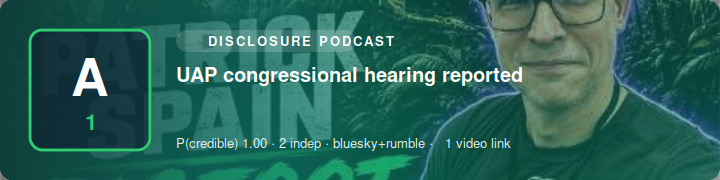
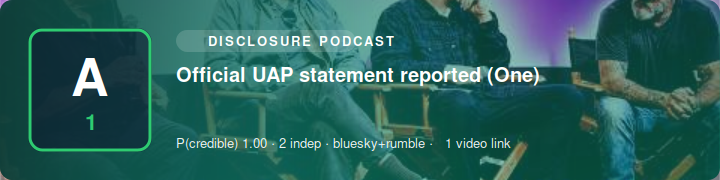
SITREP 2026-07-23 13:40 UTC

diff --git a/index.html b/index.html
@@ -1,1 +1,1 @@
-<!doctype html><meta charset=utf-8><title>Science Bob News — SITREP</title><style>body{font:16px/1.5 system-ui,sans-serif;max-width:760px;margin:2rem auto;padding:0 1rem;color:#111}h1{font-size:1.5rem}h2{margin-top:1.6rem;border-bottom:1px solid #ddd;padding-bottom:.2rem}ul{list-style:none;padding:0}li{margin:.9rem 0}.hl{font-weight:600}.meta{color:#555;font-size:.85rem}.src{font-size:.85rem}.vid{font-size:.85rem;margin-top:.15rem}.card{display:block;max-width:100%;height:auto;border-radius:8px;margin:.4rem 0 .5rem}.upd{background:#fde68a;padding:0 .3rem;border-radius:.2rem;font-size:.75rem}.sub{color:#777;font-size:.85rem}footer{color:#777;font-size:.8rem;margin-top:2rem;border-top:1px solid #ddd;padding-top:.6rem}</style><h1>🛸 Science Bob News</h1><div class="sub">UAP / UFO / USO SITREP · updated 2026-07-23 13:30 UTC · automated</div><h2>Corroborated</h2><ul><li><i>No corroborated reports.</i></li></ul><h2>Developing / unconfirmed</h2><ul><li><img class="card" src="https://n4hy.github.io/sciencebobnews-site/card_d_1.svg" alt="" width="720" height="180"><div class="hl">Official UAP statement reported (Newly)</div><div class="meta">reliability <b>A1</b> · P(credible)=1.0 · 1 independent source(s) · mastodon</div><div class="src"><a href="https://mastodon.au/@vibewire/116957536031397754">@vibewire@mastodon.au</a></div></li><li><img class="card" src="https://n4hy.github.io/sciencebobnews-site/card_d_2.svg" alt="" width="720" height="180"><div class="hl">UAP report (McMinnville)</div><div class="meta">reliability <b>A1</b> · P(credible)=1.0 · 1 independent source(s) · rumble</div><div class="src"><a href="https://www.youtube.com/watch?v=7OT6uJ0yzVY">@podcast</a></div><div class="vid">📹 <a href="https://www.youtube.com/watch?v=7OT6uJ0yzVY">video</a></div></li><li><img class="card" src="https://n4hy.github.io/sciencebobnews-site/card_d_3.svg" alt="" width="720" height="180"><div class="hl">UAP whistleblower testimony reported (Frank)</div><div class="meta">reliability <b>A1</b> · P(credible)=1.0 · 1 independent source(s) · rumble</div><div class="src"><a href="https://www.youtube.com/watch?v=CxvFVjJKZtA">@podcast</a></div><div class="vid">📹 <a href="https://www.youtube.com/watch?v=CxvFVjJKZtA">video</a></div></li><li><img class="card" src="https://n4hy.github.io/sciencebobnews-site/card_d_4.svg" alt="" width="720" height="180"><div class="hl">UAP whistleblower testimony reported (American)</div><div class="meta">reliability <b>A1</b> · P(credible)=1.0 · 1 independent source(s) · rumble</div><div class="src"><a href="https://www.youtube.com/watch?v=LPtMaGpuK-M">@podcast</a></div><div class="vid">📹 <a href="https://www.youtube.com/watch?v=LPtMaGpuK-M">video</a></div></li><li><img class="card" src="https://n4hy.github.io/sciencebobnews-site/card_d_5.svg" alt="" width="720" height="180"><div class="hl">UAP report (Australia)</div><div class="meta">reliability <b>A1</b> · P(credible)=1.0 · 1 independent source(s) · rumble</div><div class="src"><a href="https://www.youtube.com/watch?v=ZegQhxJrJGo">@podcast</a></div><div class="vid">📹 <a href="https://www.youtube.com/watch?v=ZegQhxJrJGo">video</a></div></li></ul><footer><b>Powered by Science Bob News.</b> Free to use with credit (see LICENSE). Headlines are factual restatements in the engine's own words; click sources for originals. Single-origin reposts collapse to one source; prosaic candidates flagged where offered.</footer>
+<!doctype html><meta charset=utf-8><title>Science Bob News — SITREP</title><style>body{font:16px/1.5 system-ui,sans-serif;max-width:760px;margin:2rem auto;padding:0 1rem;color:#111}h1{font-size:1.5rem}h2{margin-top:1.6rem;border-bottom:1px solid #ddd;padding-bottom:.2rem}ul{list-style:none;padding:0}li{margin:.9rem 0}.hl{font-weight:600}.meta{color:#555;font-size:.85rem}.src{font-size:.85rem}.vid{font-size:.85rem;margin-top:.15rem}.card{display:block;max-width:100%;height:auto;border-radius:8px;margin:.4rem 0 .5rem}.upd{background:#fde68a;padding:0 .3rem;border-radius:.2rem;font-size:.75rem}.sub{color:#777;font-size:.85rem}footer{color:#777;font-size:.8rem;margin-top:2rem;border-top:1px solid #ddd;padding-top:.6rem}</style><h1>🛸 Science Bob News</h1><div class="sub">UAP / UFO / USO SITREP · updated 2026-07-23 13:40 UTC · automated</div><h2>Corroborated</h2><ul><li><img class="card" src="https://n4hy.github.io/sciencebobnews-site/card_c_1.svg" alt="" width="720" height="180"><div class="hl">Official UAP statement reported (One)</div><div class="meta">reliability <b>A1</b> · P(credible)=1.0 · 2 independent source(s) · bluesky+rumble</div><div class="src"><a href="https://www.youtube.com/watch?v=gQqEkOxMhSQ">@podcast</a> · <a href="https://bsky.app/profile/did:plc:c45h73oc2lmzsaawxsbludi6/post/3mrcxlolhn22q">@did:plc:c45h73oc2lmzsaawxsbludi6</a></div><div class="vid">📹 <a href="https://www.youtube.com/watch?v=gQqEkOxMhSQ">video</a></div></li></ul><h2>Developing / unconfirmed</h2><ul><li><img class="card" src="https://n4hy.github.io/sciencebobnews-site/card_d_1.svg" alt="" width="720" height="180"><div class="hl">Official UAP statement reported (Newly)</div><div class="meta">reliability <b>A1</b> · P(credible)=1.0 · 1 independent source(s) · mastodon</div><div class="src"><a href="https://mastodon.au/@vibewire/116957536031397754">@vibewire@mastodon.au</a></div></li><li><img class="card" src="https://n4hy.github.io/sciencebobnews-site/card_d_2.svg" alt="" width="720" height="180"><div class="hl">UAP report (McMinnville)</div><div class="meta">reliability <b>A1</b> · P(credible)=1.0 · 1 independent source(s) · rumble</div><div class="src"><a href="https://www.youtube.com/watch?v=7OT6uJ0yzVY">@podcast</a></div><div class="vid">📹 <a href="https://www.youtube.com/watch?v=7OT6uJ0yzVY">video</a></div></li><li><img class="card" src="https://n4hy.github.io/sciencebobnews-site/card_d_3.svg" alt="" width="720" height="180"><div class="hl">UAP whistleblower testimony reported (Frank)</div><div class="meta">reliability <b>A1</b> · P(credible)=1.0 · 1 independent source(s) · rumble</div><div class="src"><a href="https://www.youtube.com/watch?v=CxvFVjJKZtA">@podcast</a></div><div class="vid">📹 <a href="https://www.youtube.com/watch?v=CxvFVjJKZtA">video</a></div></li><li><img class="card" src="https://n4hy.github.io/sciencebobnews-site/card_d_4.svg" alt="" width="720" height="180"><div class="hl">UAP whistleblower testimony reported (American)</div><div class="meta">reliability <b>A1</b> · P(credible)=1.0 · 1 independent source(s) · rumble</div><div class="src"><a href="https://www.youtube.com/watch?v=LPtMaGpuK-M">@podcast</a></div><div class="vid">📹 <a href="https://www.youtube.com/watch?v=LPtMaGpuK-M">video</a></div></li><li><img class="card" src="https://n4hy.github.io/sciencebobnews-site/card_d_5.svg" alt="" width="720" height="180"><div class="hl">UAP report (Australia)</div><div class="meta">reliability <b>A1</b> · P(credible)=1.0 · 1 independent source(s) · rumble</div><div class="src"><a href="https://www.youtube.com/watch?v=ZegQhxJrJGo">@podcast</a></div><div class="vid">📹 <a href="https://www.youtube.com/watch?v=ZegQhxJrJGo">video</a></div></li></ul><footer><b>Powered by Science Bob News.</b> Free to use with credit (see LICENSE). Headlines are factual restatements in the engine's own words; click sources for originals. Single-origin reposts collapse to one source; prosaic candidates flagged where offered.</footer>

diff --git a/sitrep.md b/sitrep.md
@@ -1,8 +1,13 @@
 # 🛸 Science Bob News — UAP / UFO / USO SITREP
-*Updated 2026-07-23 13:30 UTC · auto-generated · sources credited & linked · reliability ratings are automated, not editorial*
+*Updated 2026-07-23 13:40 UTC · auto-generated · sources credited & linked · reliability ratings are automated, not editorial*
 
 ## Corroborated
-_No corroborated reports this cycle._
+
+![Official UAP statement reported (One)](https://n4hy.github.io/sciencebobnews-site/card_c_1.svg)
+1. **Official UAP statement reported (One)**  
+   reliability **A1** · P(credible)=1.0 · 2 independent source(s) · bluesky+rumble  
+   [@podcast](https://www.youtube.com/watch?v=gQqEkOxMhSQ) · [@did:plc:c45h73oc2lmzsaawxsbludi6](https://bsky.app/profile/did:plc:c45h73oc2lmzsaawxsbludi6/post/3mrcxlolhn22q)  
+   📹 [video](https://www.youtube.com/watch?v=gQqEkOxMhSQ)
 
 ## Developing / unconfirmed
 
